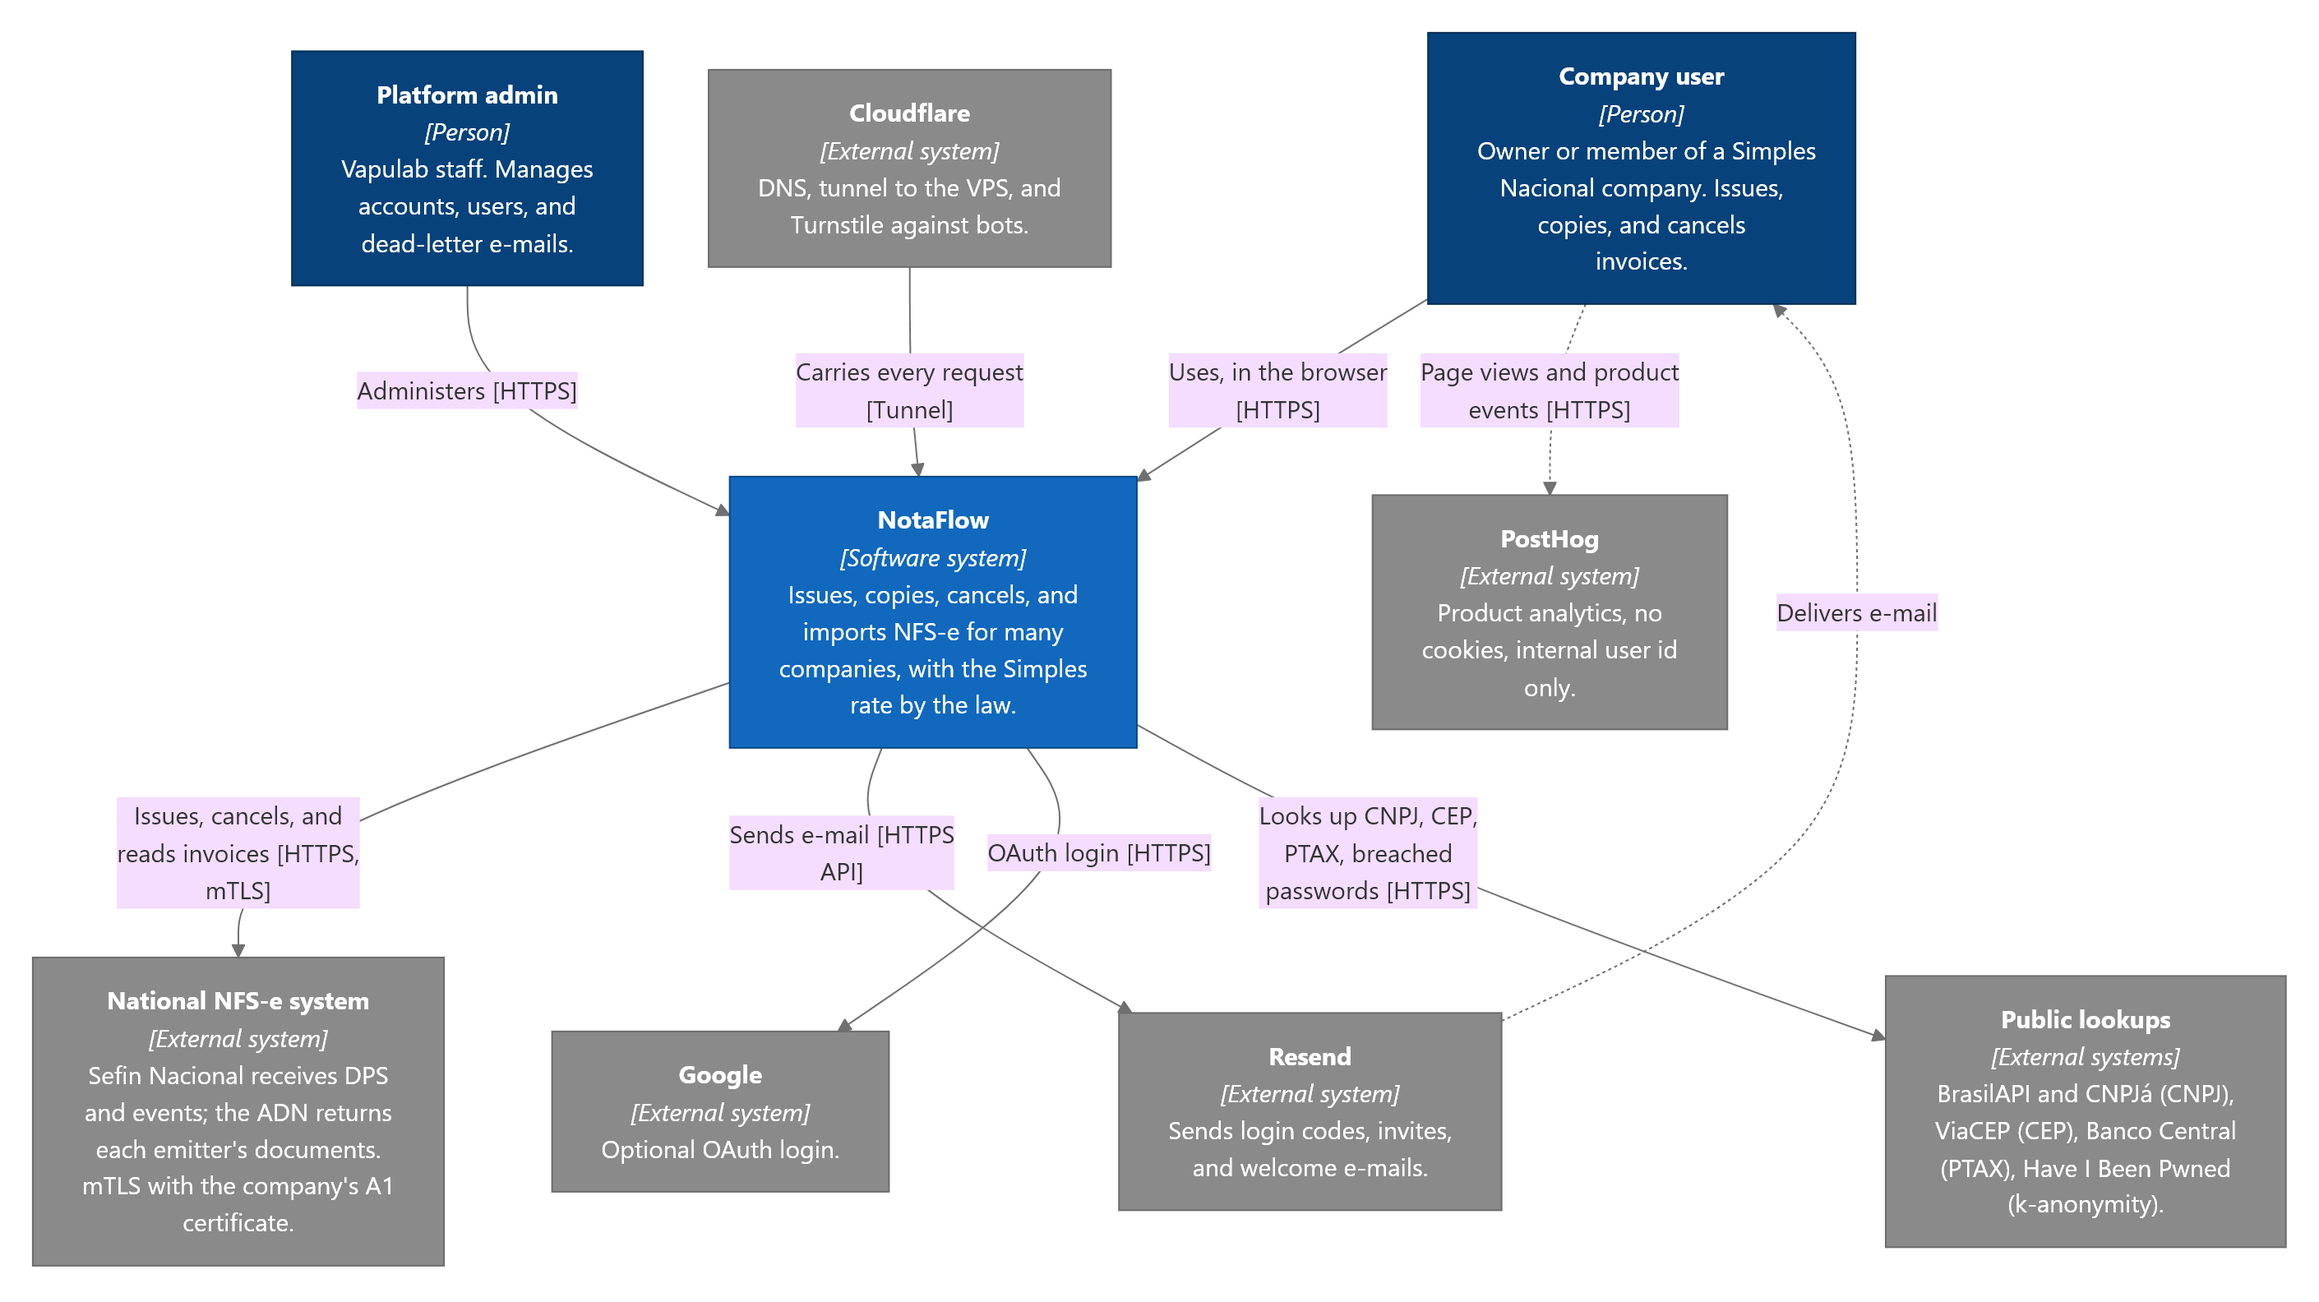
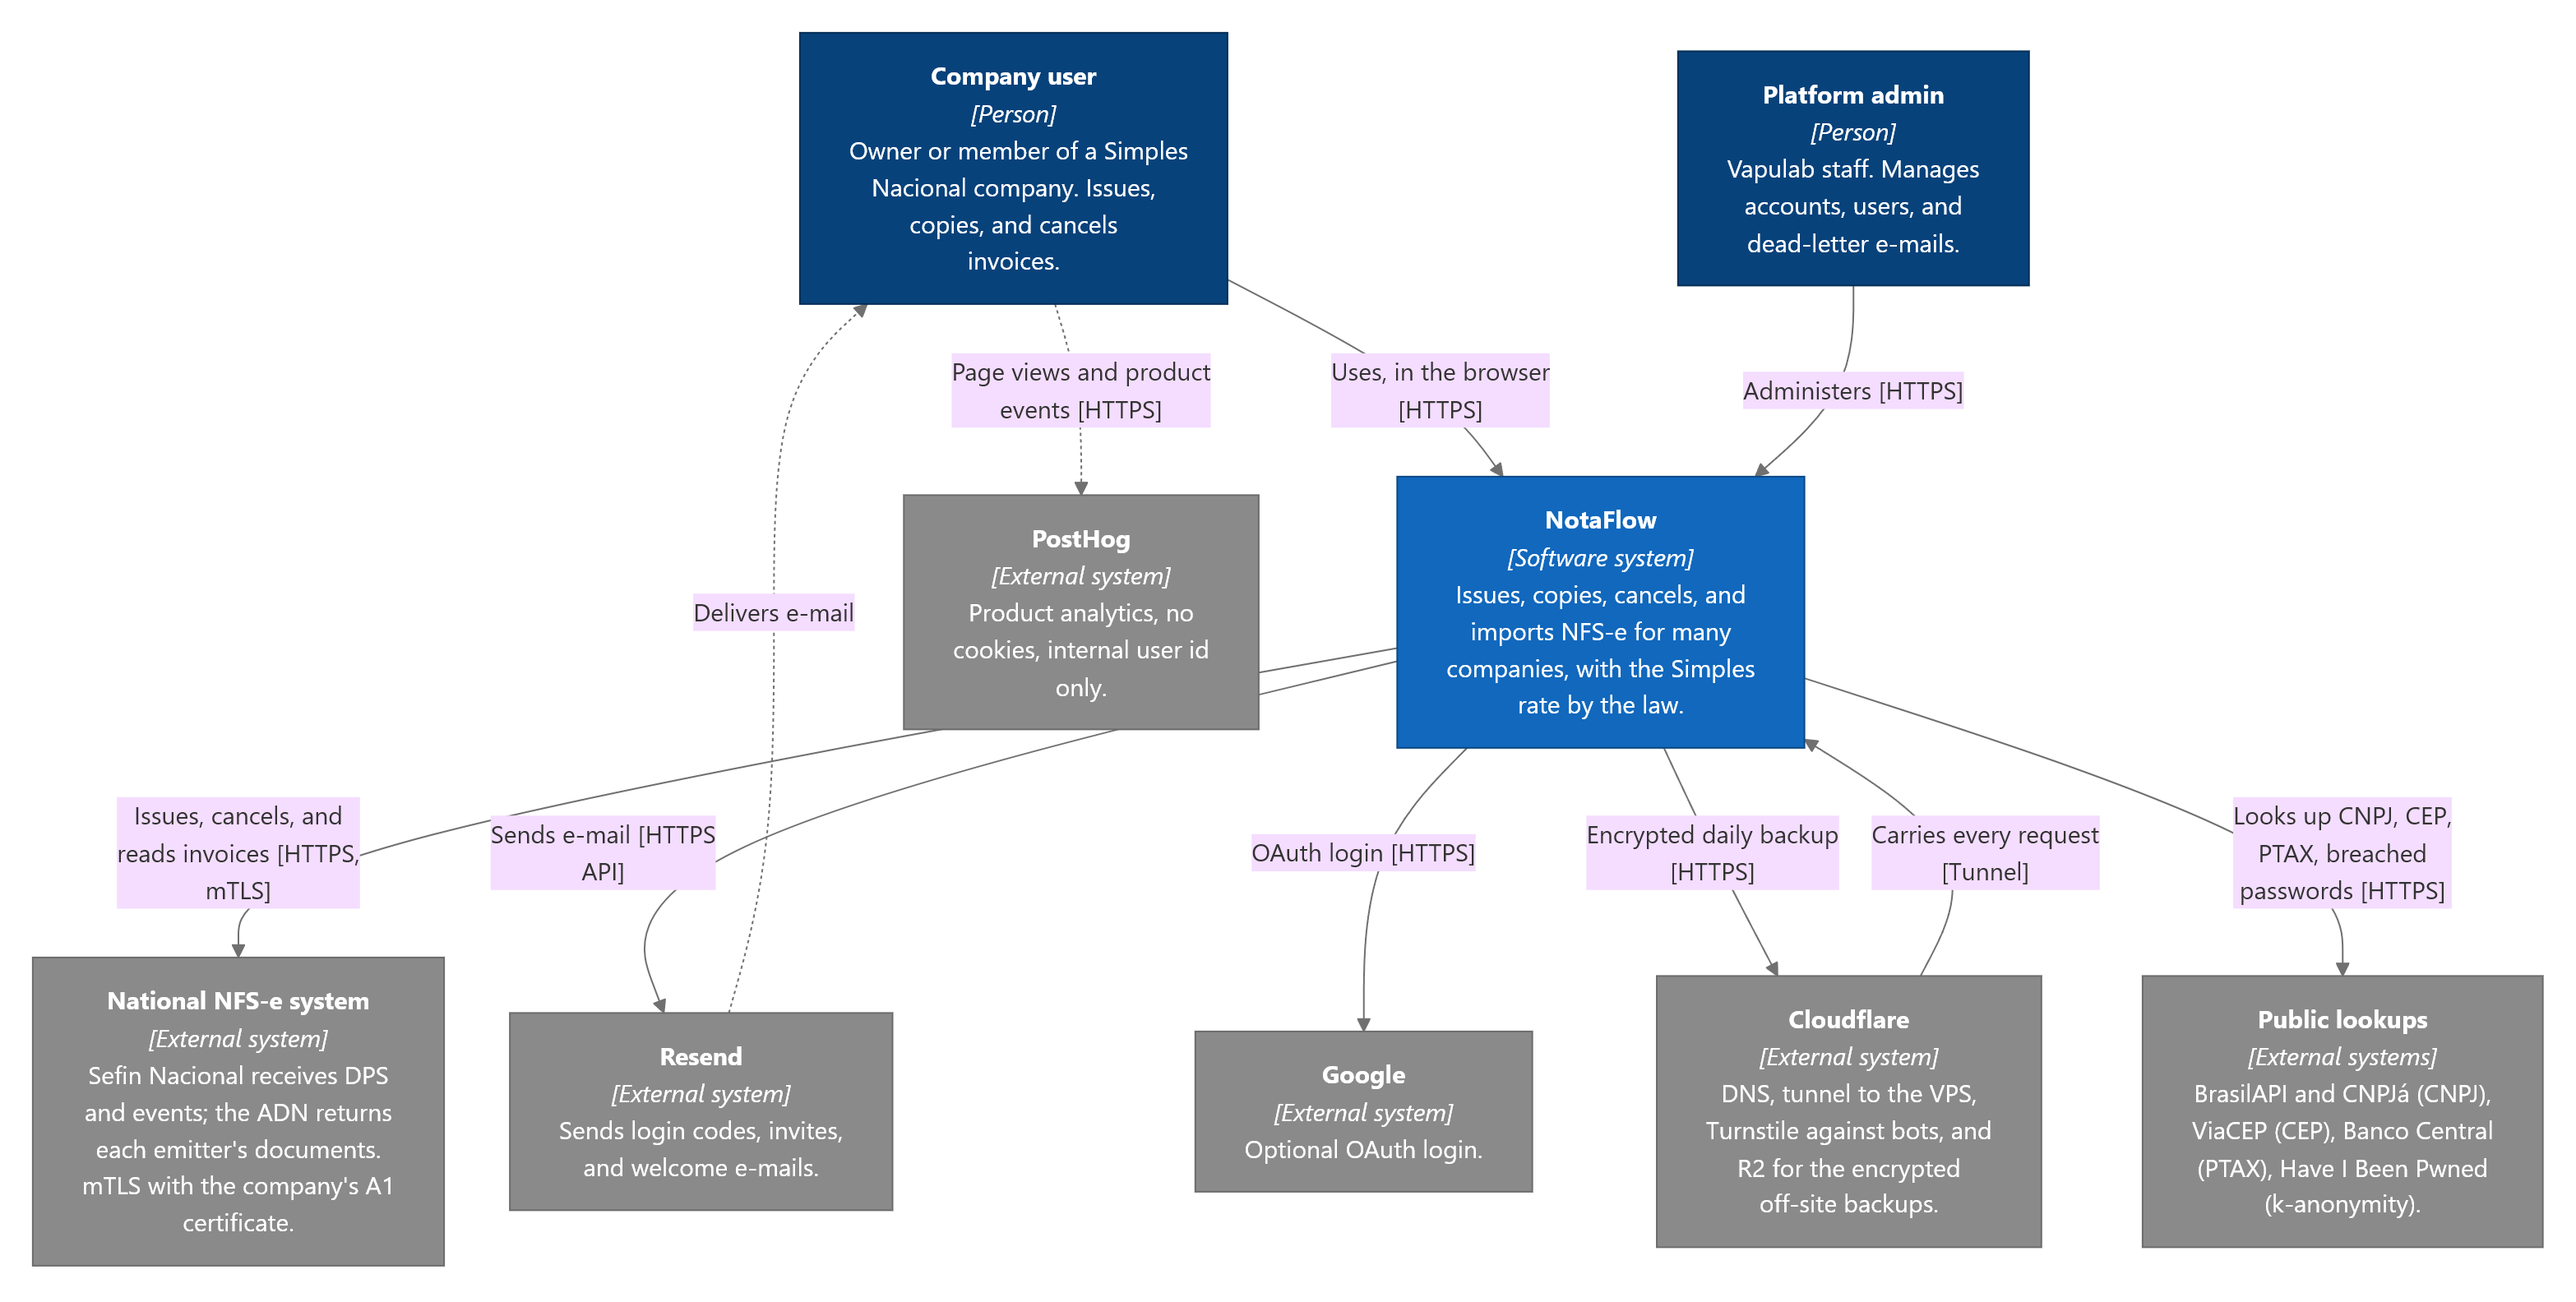
feat(deploy): encrypted off-site backups to Cloudflare R2
Every day at 03:30 the VPS compresses the newest database backup, encrypts it
with age to a public key, and sends it to the R2 bucket notaflow-backups over
IPv4 (the token allows the VPS IPv4 only). The private key is not on the VPS.
The tutorial documents the restore, tested on the first copy, and the server
hardening (key-only SSH, ufw, fail2ban). The deployment, container, and context
diagrams show R2. The privacy policy says PostHog keeps no IP and the backups
stay 30 days, encrypted, at Cloudflare.

diff --git a/apps/web/privacidade.html b/apps/web/privacidade.html
@@ -149,7 +149,7 @@
             <td>Exercício regular de direitos (VI)</td>
           </tr>
           <tr>
-            <td>Uso do serviço: páginas vistas e ações no app, ligadas a um identificador interno, sem o seu e-mail ou nome e sem o conteúdo das notas</td>
+            <td>Uso do serviço: páginas vistas e ações no app, ligadas a um identificador interno, sem o seu e-mail, nome ou IP e sem o conteúdo das notas</td>
             <td>Entender o uso e melhorar o produto</td>
             <td>Legítimo interesse (IX). Você pode se opor pelo privacidade@vapulab.com, e paramos de medir o seu uso.</td>
           </tr>
@@ -167,10 +167,10 @@
       <ul>
         <li><strong>Sistema nacional da NFS-e</strong> (governo federal): recebe as notas e os cancelamentos, e devolve as notas do emitente.</li>
         <li><strong>Hostinger, no Brasil</strong> (servidor virtual): guarda o banco de dados e as cópias de segurança, e executa o serviço.</li>
-        <li><strong>Cloudflare</strong> (EUA e rede mundial): todo o tráfego entre o seu navegador e o NotaFlow passa por ela, inclusive o envio do certificado e das senhas. Ela também faz a verificação contra robôs (Turnstile).</li>
+        <li><strong>Cloudflare</strong> (EUA e rede mundial): todo o tráfego entre o seu navegador e o NotaFlow passa por ela, inclusive o envio do certificado e das senhas. Ela também faz a verificação contra robôs (Turnstile) e guarda uma cópia de segurança diária do banco de dados, cifrada antes de sair do nosso servidor, que ela não consegue ler.</li>
         <li><strong>Resend</strong> (EUA): envia os e-mails de código, de recuperação de senha e de convite.</li>
         <li><strong>Google</strong> (EUA): só se você escolher entrar com Google.</li>
-        <li><strong>PostHog</strong> (EUA): medição de uso do produto, sem cookies, sem gravar a tela e sem o seu e-mail.</li>
+        <li><strong>PostHog</strong> (EUA): medição de uso do produto, sem cookies, sem gravar a tela, sem o seu e-mail e sem o seu IP.</li>
         <li><strong>BrasilAPI e CNPJá</strong>: consulta pública do CNPJ da sua empresa; <strong>ViaCEP</strong>: consulta de endereço pelo CEP; <strong>Banco Central</strong>: cotação PTAX. Essas consultas enviam só o CNPJ, o CEP ou a data.</li>
         <li><strong>Have I Been Pwned</strong>: confere se uma senha nova já vazou. Enviamos só o começo do hash da senha, nunca a senha.</li>
         <li><strong>Autoridades</strong>: quando a lei ou uma ordem judicial exigir.</li>
@@ -192,8 +192,8 @@
         <li><strong>Notas e dados dos tomadores:</strong> guardamos em nome da empresa emitente enquanto a conta estiver ativa. Depois do encerramento, mantemos por mais 90 dias para a empresa pedir uma cópia e então anonimizamos os dados pessoais, salvo instrução diferente da empresa. A guarda fiscal de 5 anos (arts. 173 e 195, parágrafo único, do Código Tributário Nacional) é obrigação da empresa, e a fonte oficial das notas é o sistema nacional.</li>
         <li><strong>Registros de acesso (IP, data e hora):</strong> 6 meses, como exige o art. 15 do Marco Civil da Internet. Depois, anonimizamos o IP, salvo ordem judicial ou investigação em curso.</li>
         <li><strong>Trilha de auditoria e registro de aceite:</strong> até 5 anos depois do encerramento da conta, para a defesa da Vapulab e da empresa em processos (exercício regular de direitos).</li>
-        <li><strong>Certificado digital:</strong> enquanto o emitente estiver ativo e o certificado for válido. Quando você troca o certificado, remove o emitente ou pede a eliminação, destruímos em até 5 dias úteis a chave que decifra o arquivo e a senha. A partir daí, o arquivo cifrado que fica no banco não pode mais ser lido por ninguém, nem por nós. As cópias de segurança que ainda o contêm são apagadas em até 14 dias.</li>
-        <li><strong>Cópias de segurança:</strong> 14 dias. Um dado anonimizado sai das cópias quando elas vencem.</li>
+        <li><strong>Certificado digital:</strong> enquanto o emitente estiver ativo e o certificado for válido. Quando você troca o certificado, remove o emitente ou pede a eliminação, destruímos em até 5 dias úteis a chave que decifra o arquivo e a senha. A partir daí, o arquivo cifrado que fica no banco não pode mais ser lido por ninguém, nem por nós. As cópias de segurança que ainda o contêm são apagadas em até 30 dias.</li>
+        <li><strong>Cópias de segurança:</strong> 14 dias no nosso servidor e 30 dias, cifradas, na Cloudflare. Um dado anonimizado sai das cópias quando elas vencem.</li>
       </ul>
       <p>
         O banco de dados do NotaFlow não apaga linhas. Quando um prazo acima termina, ou quando você
@@ -207,7 +207,7 @@
         <li>A conexão é sempre cifrada (HTTPS), e as senhas ficam guardadas só como hash.</li>
         <li>A passkey usa a biometria só no seu aparelho; recebemos apenas uma chave pública.</li>
         <li>Cada conta só vê os próprios dados, e as ações relevantes ficam na trilha de auditoria.</li>
-        <li>Fazemos cópias de segurança diárias do banco de dados.</li>
+        <li>Fazemos cópias de segurança diárias do banco de dados, com uma cópia cifrada fora do servidor.</li>
       </ul>
       <p>
         Se um incidente de segurança puder causar risco ou dano relevante a você, comunicamos a você

diff --git a/docs/ENGINEERING/ARCHITECTURE/diagrams/render.html b/docs/ENGINEERING/ARCHITECTURE/diagrams/render.html
@@ -56,9 +56,12 @@
       out.innerHTML = svg;
       // Twice the natural size, so the PNG is sharp; the SVG scales without changing its layout.
       const drawn = out.querySelector('svg');
+      // Crop to what is drawn: Mermaid sometimes leaves a frame much larger than the diagram.
+      const box = drawn.getBBox();
+      drawn.setAttribute('viewBox', `${box.x - 8} ${box.y - 8} ${box.width + 16} ${box.height + 16}`);
       drawn.style.maxWidth = 'none';
-      drawn.setAttribute('width', String(drawn.viewBox.baseVal.width * 2));
-      drawn.setAttribute('height', String(drawn.viewBox.baseVal.height * 2));
+      drawn.setAttribute('width', String((box.width + 16) * 2));
+      drawn.setAttribute('height', String((box.height + 16) * 2));
       document.body.dataset.ready = 'true';
     </script>
   </body>

diff --git a/docs/TUTORIALS/DEPLOY_ON_VM.md b/docs/TUTORIALS/DEPLOY_ON_VM.md
@@ -73,7 +73,37 @@ docker run --rm -v notaflow_data:/data alpine sh -c 'cp /data/backups/<file>.db 
 docker compose start app
 ```
 
-The backups live on the same disk as the database. After a VPS loss, the ADN is the backup for invoices: deploy again, onboard the emitter with its `.pfx`, and sync. What exists only in the database (accounts, users, manual customer data, the audit log, DPS numbering) needs a backup copied off the VPS; that is planned after Stage 1.
+## Off-site backups
+
+`notaflow-offsite-backup.timer` runs `/opt/notaflow/offsite-backup.sh` every day at 03:30, after the local backup. The script does four things:
+
+1. Takes the newest file in `/data/backups`.
+2. Compresses it with gzip.
+3. Encrypts it with [age](https://age-encryption.org) to a public key.
+4. Sends it to the Cloudflare R2 bucket `notaflow-backups`.
+
+The bucket deletes objects older than 30 days (a lifecycle rule). The script and the units are in `deploy/`; install a new version with `install -m 700 offsite-backup.sh /opt/notaflow/`.
+
+- **`/opt/notaflow/offsite.env`** (600, root) holds `R2_ACCESS_KEY_ID`, `R2_SECRET_ACCESS_KEY`, `R2_ENDPOINT`, `R2_BUCKET`, and `AGE_RECIPIENT`, the public key only.
+- **The R2 token** can read and write this bucket only, and only from the VPS IPv4 address. The VPS also goes out over IPv6, so the script calls `curl -4`.
+- **The private key is not on the VPS.** Someone who gets into the VPS cannot read the copies. Lincoln keeps the private key in his password manager and in `keys/notaflow-backup.age.key` on his machine, which git ignores. Without it, no copy can be decrypted.
+
+Restore from R2, on any machine with `age` and the private key:
+
+```bash
+# Download the object from the R2 dashboard (or with the same curl call the script uses, with -o).
+age -d -i notaflow-backup.age.key notaflow-<UTC time>.db.gz.age | gunzip > notaflow.db
+python3 -c "import sqlite3; print(sqlite3.connect('notaflow.db').execute('pragma integrity_check').fetchone())"
+```
+
+Then copy `notaflow.db` into the volume as in "Restore" above. The first copy was restored this way on 2026-10-11: the integrity check printed `ok`, with 20 tables and 16 migrations.
+
+## Server hardening
+
+- **SSH:** key login only. `/etc/ssh/sshd_config.d/00-hardening.conf` turns off passwords, lets root in with a key only, turns off X11, and allows 3 tries. Delete that file and run `systemctl reload ssh` to undo it.
+- **Firewall:** `ufw` denies every inbound connection but 22/tcp. The containers publish no port to the internet, and the tunnel only connects out.
+- **fail2ban:** bans an IP for an hour after 5 failed SSH logins in 10 minutes (`/etc/fail2ban/jail.d/sshd.local`, reading `/var/log/auth.log`).
+- **Updates:** `unattended-upgrades` installs the security updates. A new kernel still needs a reboot, which takes the three sites on this VPS down for about a minute.
 
 ## Login
 

diff --git a/docs/ENGINEERING/ARCHITECTURE/diagrams/README.md b/docs/ENGINEERING/ARCHITECTURE/diagrams/README.md
@@ -6,7 +6,7 @@ The `.mmd` files are the sources of the C4 diagrams in the [Architecture Overvie
 
 1. Edit the `.mmd` file.
 2. Serve this folder: `python -m http.server 4181 --bind 127.0.0.1`.
-3. Open `http://127.0.0.1:4181/render.html?file=<name>.mmd` in a browser. The page loads Mermaid 11.4.1 from jsDelivr, so it needs the internet.
+3. Open `http://localhost:4181/render.html?file=<name>.mmd` in a browser at 100% zoom (Chrome keeps a zoom per host, and a zoomed page makes a small PNG). The page loads Mermaid 11.4.1 from jsDelivr, so it needs the internet.
 4. Save a screenshot of the diagram as `<name>.png` (in Chrome: DevTools, select `#out`, then "Capture node screenshot"; with Playwright, a screenshot of `#out`).
 5. Commit the `.mmd` and the `.png` together.
 
